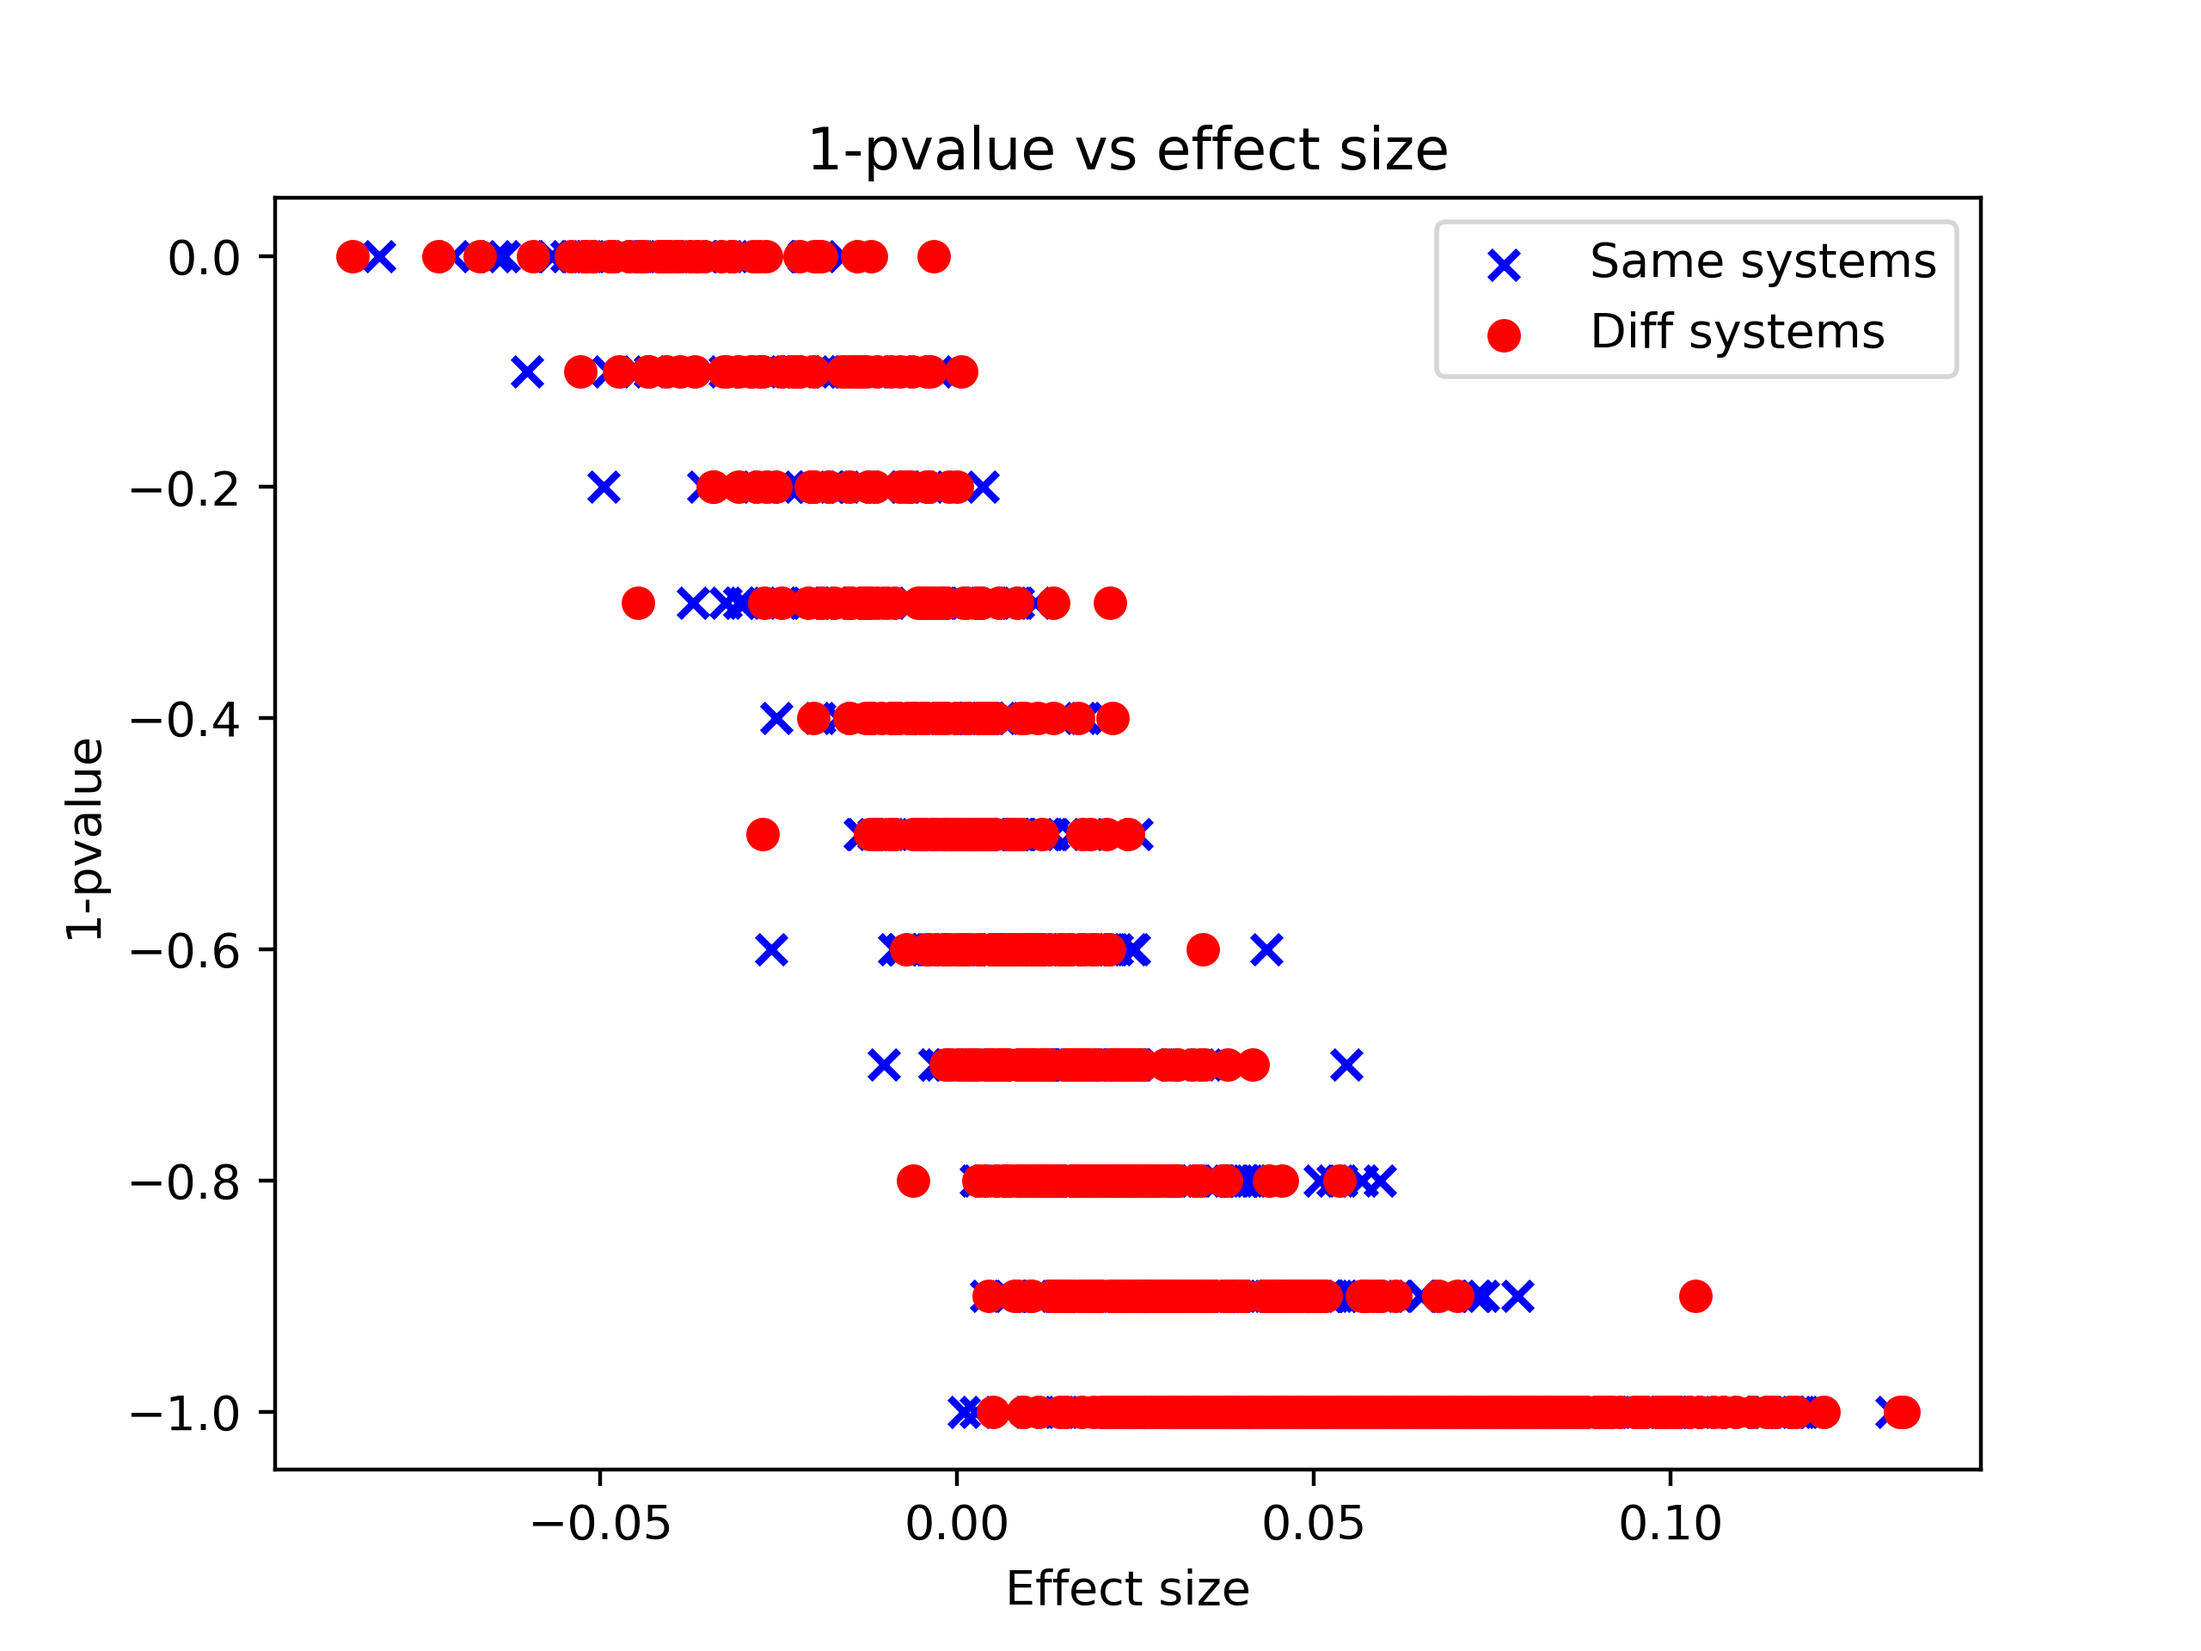
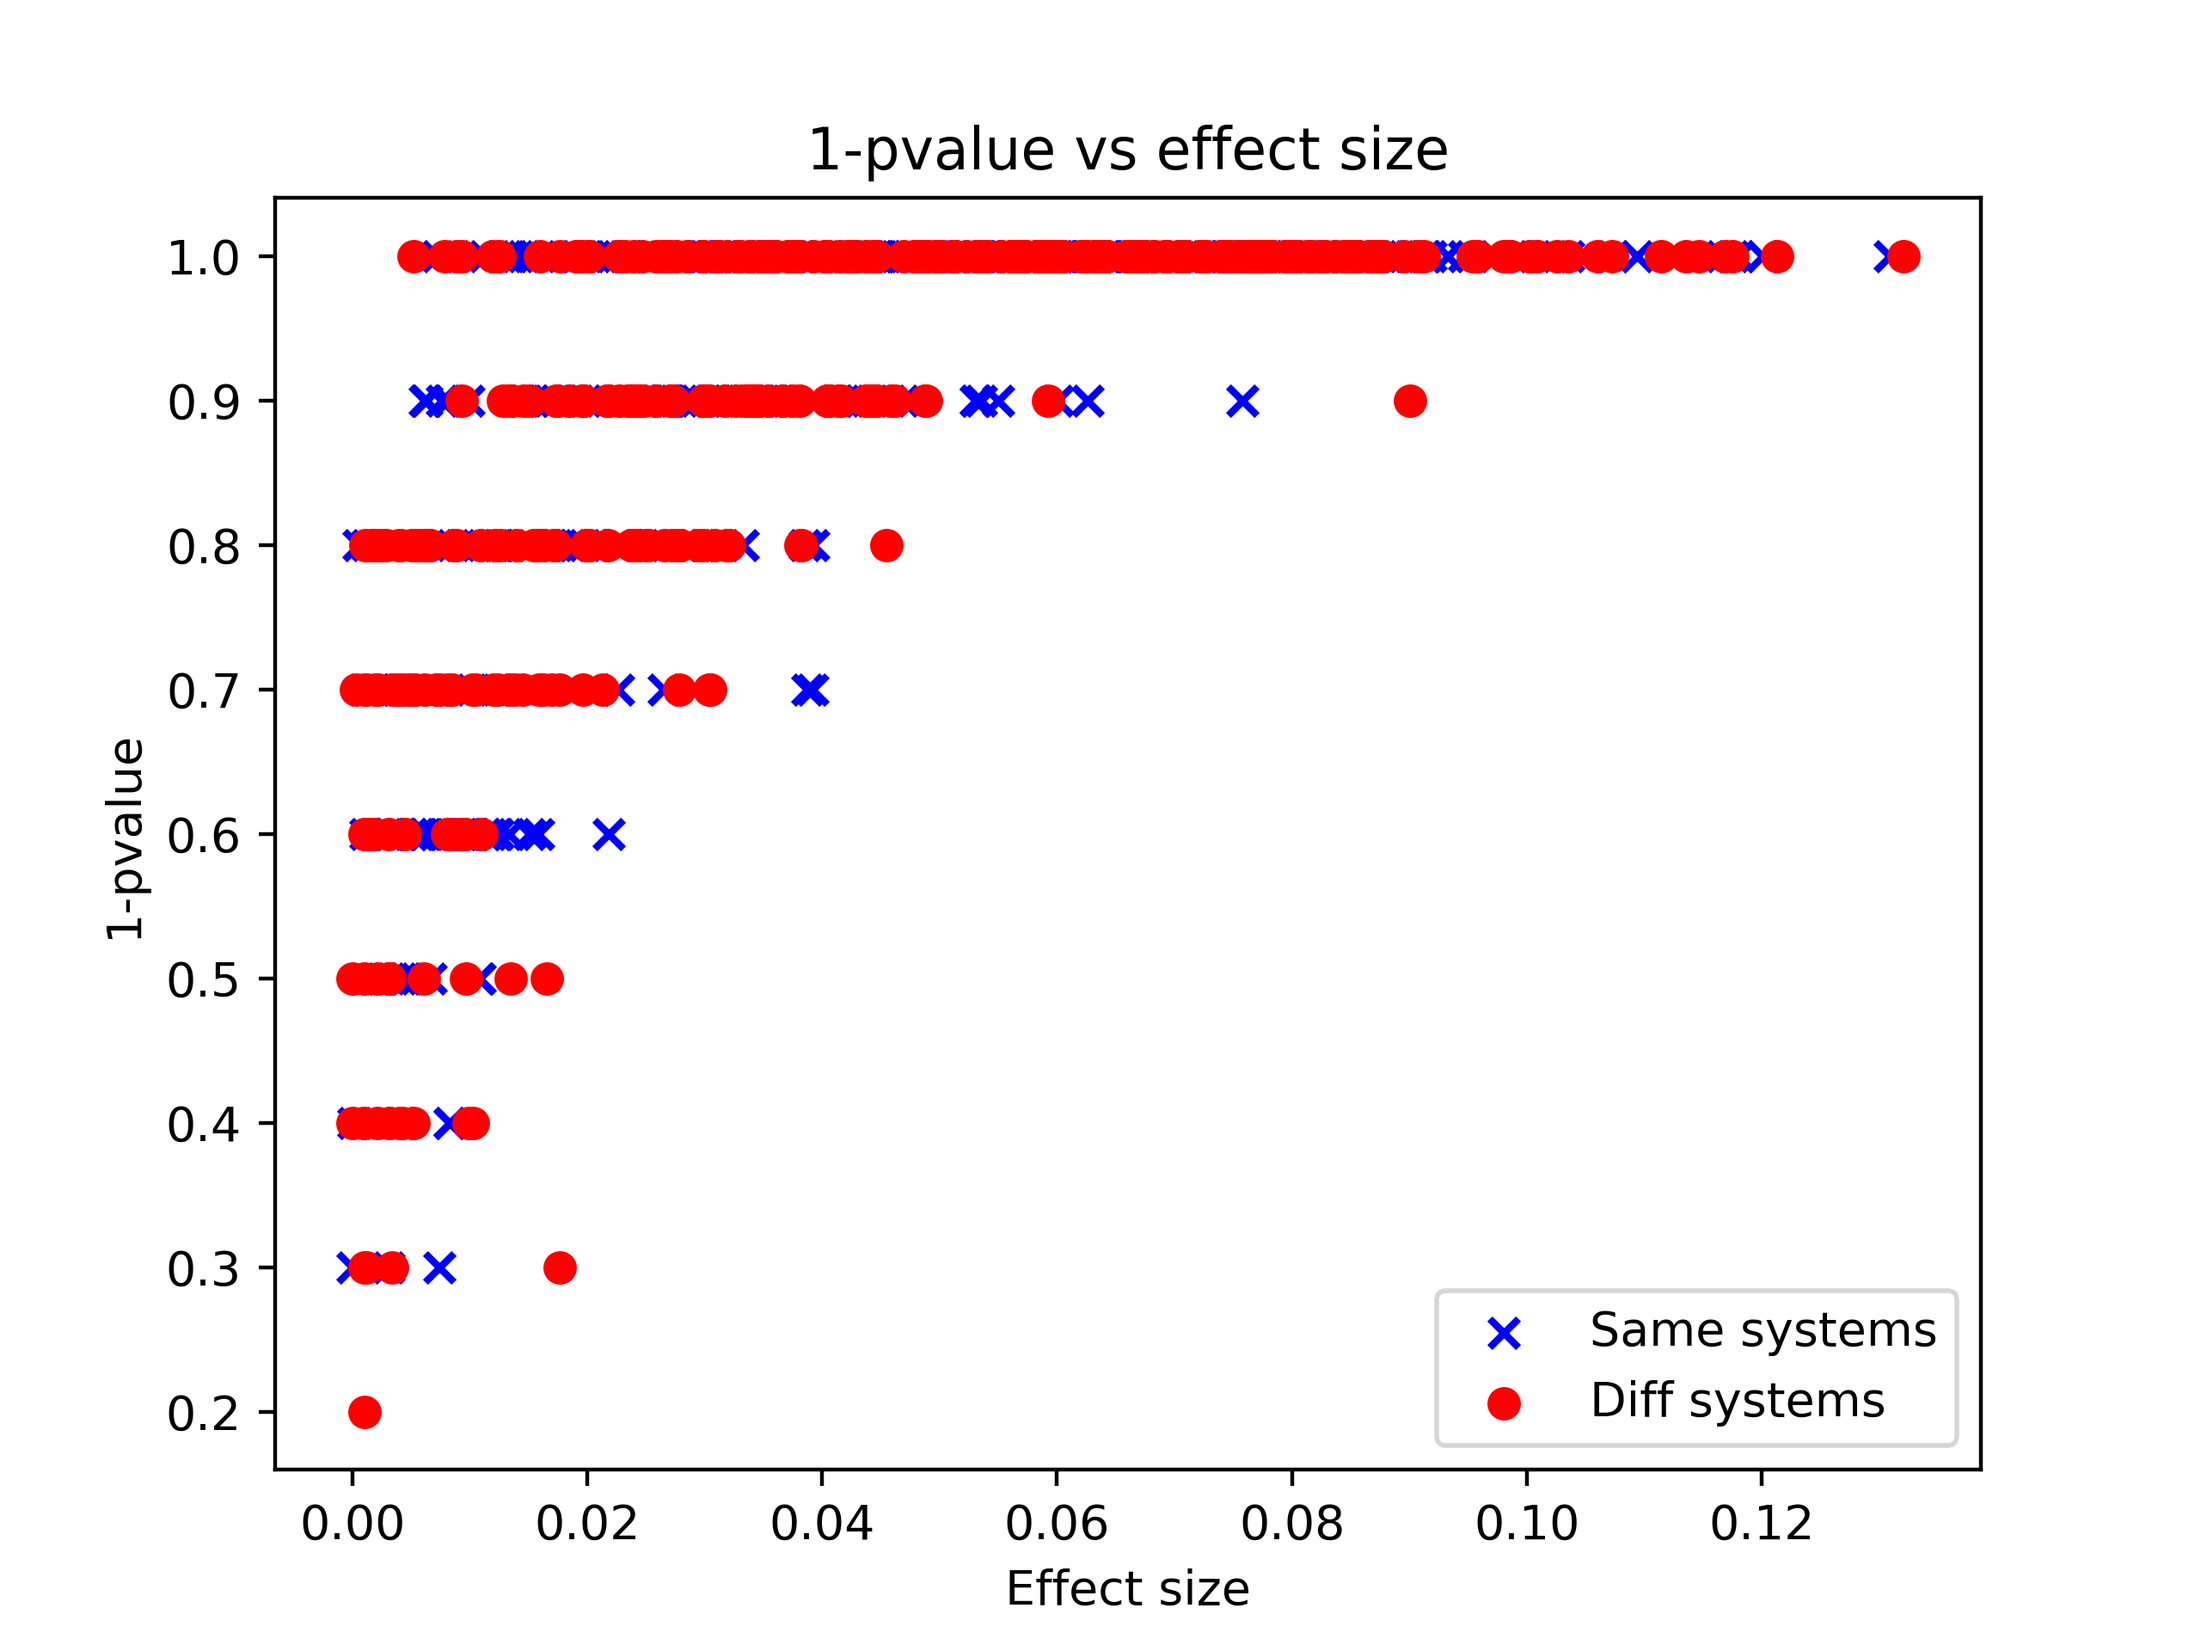
updated readme

diff --git a/main.py b/main.py
@@ -46,13 +46,8 @@ def get_x_y(path: str) -> tuple:
     return x, y
 
 
-def learn(training_sets_path: str) -> list:
+def learn() -> list:
     """Learn the sixty classifiers.
-
-    Parameters
-    ----------
-    training_sets_path : str
-        Location of the trainingSets directory.
 
     Returns
     -------
@@ -62,7 +57,7 @@ def learn(training_sets_path: str) -> list:
     systems = []
     for size in sizes:
         for i in range(1, n_docs_per_size + 1):
-            path = Path(training_sets_path) / str(size) / f"train{i}.txt"
+            path = Path("./trainingSets") / str(size) / f"train{i}.txt"
             x_train, y_train = get_x_y(path)
 
             clf_count = NaiveBayesClassifier()
@@ -136,7 +131,7 @@ def bootstrap(test_file: str, systems: list) -> None:
                 f.write(line + "\n")
 
 
-def main(training_sets_path: str, test_file: str) -> None:
+def main(test_file: str) -> None:
     """Produce the deliverables.
 
     Parameters
@@ -146,7 +141,7 @@ def main(training_sets_path: str, test_file: str) -> None:
     test_file : str
         Path to the test file.
     """
-    systems = learn(training_sets_path)
+    systems = learn()
     bootstrap(test_file, systems)
 
 
@@ -154,18 +149,12 @@ if __name__ == "__main__":
     parser = ArgumentParser()
 
     parser.add_argument(
-        "--training-sets-path",
-        action="store",
-        default="./trainingSets",
-        help="Unix-style path to the trainingSets directory.",
-    )
-    parser.add_argument(
         "--test-file",
         action="store",
         default="./testMaster.txt",
-        help="Unix-style path to the test file.",
+        help="Unix-style path to the testMaster.txt file.",
     )
 
     args = parser.parse_args()
 
-    main(args.training_sets_path, args.test_file)
+    main(args.test_file)

diff --git a/plotting.py b/plotting.py
@@ -29,7 +29,7 @@ def pval_vs_effect_basic(input_file: str, output_file: str) -> None:
     """
     df = pd.read_csv(input_file)
 
-    pvals = df["pval"].to_numpy() - 1
+    pvals = 1 - df["pval"].to_numpy()
     effect_sizes = df["effect_size"].to_numpy()
 
     plt.scatter(effect_sizes, pvals, marker="x", color="black")
@@ -53,7 +53,7 @@ def pval_vs_effect_system(input_file: str, output_file: str) -> None:
     """
     df = pd.read_csv(input_file)
 
-    pvals = df["pval"].to_numpy() - 1
+    pvals = 1 - df["pval"].to_numpy()
     effect_sizes = df["effect_size"].to_numpy()
     same_system = [a == b for a, b in zip(df["typeA"], df["typeB"])]
 

diff --git a/README.md b/README.md
@@ -74,7 +74,35 @@ In this scenario, the following default arguments will be used
 
 For help with this program,
 ```console
-python3 preprocess.py -h
+python3 split.py -h
+```
+
+## Main Learning & Bootstrapping
+
+To run the main program,
+```console
+python3 main.py --test-file=<test_file>
+```
+
+where
+- <test_file> is a Unix-style path to the test file, e.g., ./testMaster.txt
+
+For example,
+```console
+python3 main.py --test-file=./testMaster.txt
+```
+
+You can also run this program without command line arguments. For example,
+```console
+python3 main.py
+```
+
+In this scenario, the following default arguments will be used
+- <test_file>="./testMaster.txt"
+
+For help with this program,
+```console
+python3 main.py -h
 ```
 
 ## Plotting
